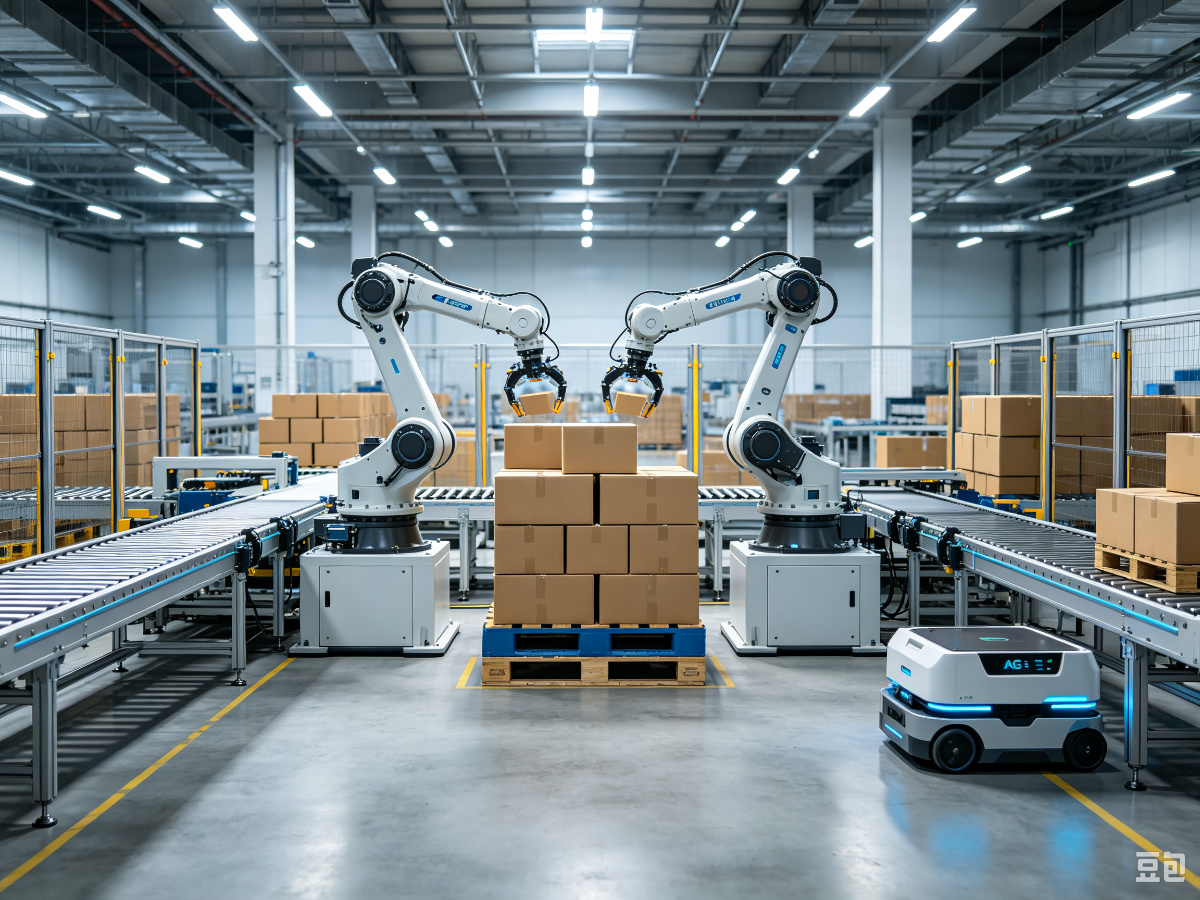
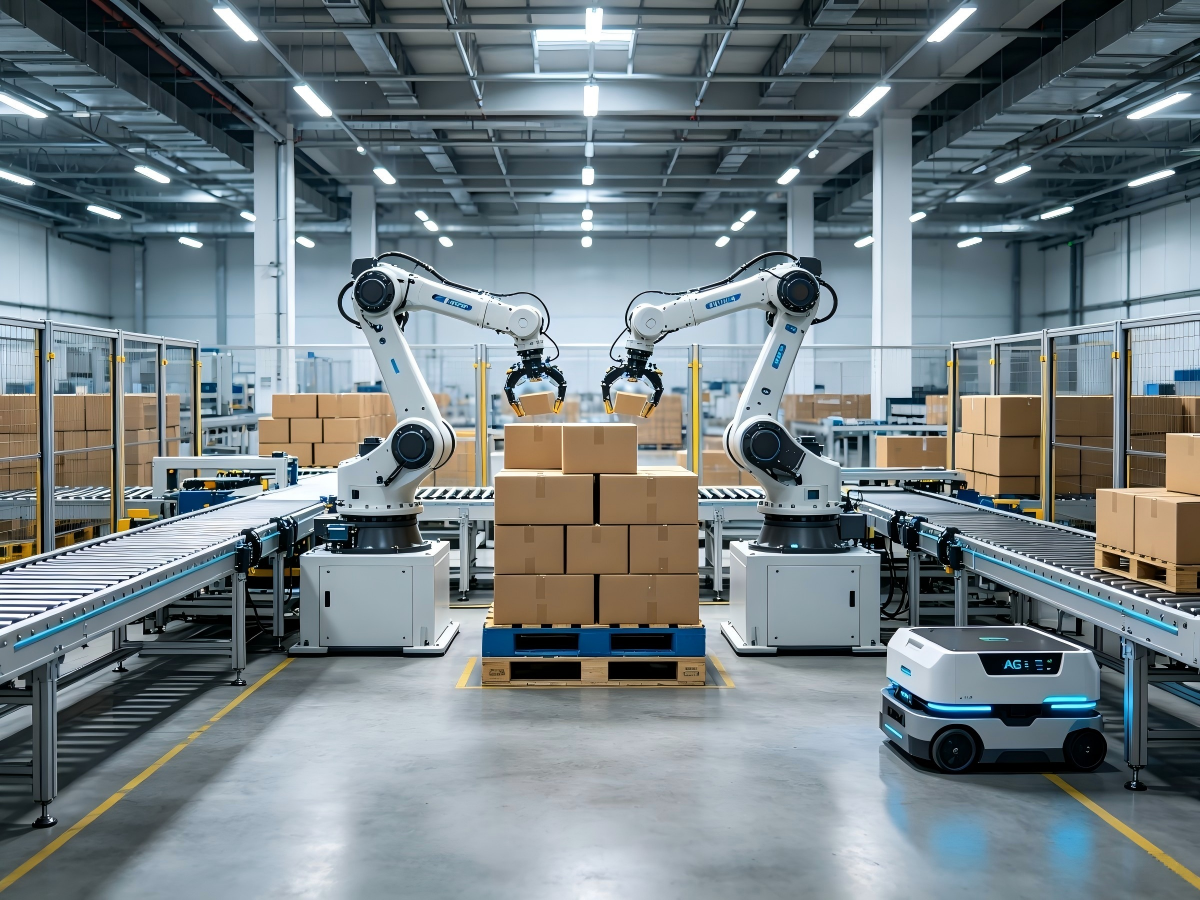
feat(admin): drag-to-reorder product images (first = main)

diff --git a/apps/admin/components/products/ProductForm.tsx b/apps/admin/components/products/ProductForm.tsx
@@ -5,7 +5,17 @@ import { useState } from "react";
 import { useFieldArray, useForm } from "react-hook-form";
 import { z } from "zod";
 import { zodResolver } from "@hookform/resolvers/zod";
-import { FileText, Package, Plus, Trash2, X } from "lucide-react";
+import { FileText, GripVertical, Package, Plus, Trash2, X } from "lucide-react";
+import {
+  closestCenter,
+  DndContext,
+  PointerSensor,
+  useSensor,
+  useSensors,
+  type DragEndEvent,
+} from "@dnd-kit/core";
+import { arrayMove, rectSortingStrategy, SortableContext, useSortable } from "@dnd-kit/sortable";
+import { CSS } from "@dnd-kit/utilities";
 import { toast } from "sonner";
 import {
   getGroupOfCategory,
@@ -40,6 +50,53 @@ type ProductFormProps = {
   initial?: { record: AdminProduct };
 };
 
+/** 可拖拽图片块（整块可拖；X 删除按钮通过 5px 激活距离与 stopPropagation 保持可点） */
+function SortableImageTile({
+  url,
+  index,
+  onDelete,
+}: {
+  url: string;
+  index: number;
+  onDelete: () => void;
+}) {
+  const { attributes, listeners, setNodeRef, transform, transition, isDragging } = useSortable({
+    id: url,
+  });
+
+  return (
+    <div
+      ref={setNodeRef}
+      style={{ transform: CSS.Transform.toString(transform), transition }}
+      {...attributes}
+      {...listeners}
+      className={`group relative aspect-[4/3] cursor-grab overflow-hidden rounded-lg border border-slate-200 active:cursor-grabbing ${
+        isDragging ? "z-10 opacity-80 shadow-lg" : ""
+      }`}
+    >
+      {/* eslint-disable-next-line @next/next/no-img-element */}
+      <img src={url} alt={`产品图 ${index + 1}`} className="h-full w-full object-cover" />
+      {index === 0 && (
+        <span className="bg-brand-blue absolute left-1.5 top-1.5 rounded-md px-1.5 py-0.5 text-xs font-medium text-white">
+          主图
+        </span>
+      )}
+      <span className="absolute bottom-1.5 left-1.5 rounded-md bg-black/50 p-1 text-white opacity-0 transition-opacity group-hover:opacity-100">
+        <GripVertical className="h-3.5 w-3.5" />
+      </span>
+      <button
+        type="button"
+        aria-label="删除图片"
+        onPointerDown={(e) => e.stopPropagation()}
+        onClick={onDelete}
+        className="absolute right-1.5 top-1.5 rounded-md bg-black/60 p-1 text-white opacity-0 transition-opacity group-hover:opacity-100"
+      >
+        <X className="h-3.5 w-3.5" />
+      </button>
+    </div>
+  );
+}
+
 /** 产品新增/编辑表单（真实 API + MinIO 素材上传/删除） */
 export function ProductForm({ initial }: ProductFormProps) {
   const router = useRouter();
@@ -54,6 +111,20 @@ export function ProductForm({ initial }: ProductFormProps) {
   const [spec, setSpec] = useState(initial?.record.specUrl ?? "");
   const [model3d, setModel3d] = useState(initial?.record.modelUrl ?? "");
   const [uploading, setUploading] = useState<"image" | "spec" | "model3d" | null>(null);
+
+  /** 拖拽传感器：5px 激活距离（避免误触删除按钮与普通点击） */
+  const sensors = useSensors(useSensor(PointerSensor, { activationConstraint: { distance: 5 } }));
+
+  /** 拖拽结束：按目标位置重排（主图始终为 position 0） */
+  const onDragEnd = (event: DragEndEvent) => {
+    const { active, over } = event;
+    if (!over || active.id === over.id) return;
+    setImages((prev) => {
+      const oldIndex = prev.indexOf(String(active.id));
+      const newIndex = prev.indexOf(String(over.id));
+      return arrayMove(prev, oldIndex, newIndex);
+    });
+  };
 
   /** 上传素材到 MinIO（经 API） */
   const uploadAsset = async (kind: "image" | "spec" | "model3d", file: File) => {
@@ -306,58 +377,50 @@ export function ProductForm({ initial }: ProductFormProps) {
         </CardContent>
       </Card>
 
-      {/* 产品图片管理 */}
+      {/* 产品图片管理（拖拽排序，第一张为主图） */}
       <Card>
         <CardHeader className="flex-row items-center justify-between space-y-0">
           <CardTitle className="text-base">产品图片</CardTitle>
-          <span className="text-xs text-slate-400">第一张为主图（最多 4 张）</span>
+          <span className="text-xs text-slate-400">拖拽调整顺序，第一张为主图（最多 4 张）</span>
         </CardHeader>
         <CardContent>
-          <div className="grid grid-cols-4 gap-4">
-            {images.map((url, index) => (
-              <div
-                key={url}
-                className="group relative aspect-[4/3] overflow-hidden rounded-lg border border-slate-200"
-              >
-                {/* eslint-disable-next-line @next/next/no-img-element */}
-                <img src={url} alt={`产品图 ${index + 1}`} className="h-full w-full object-cover" />
-                {index === 0 && (
-                  <span className="bg-brand-blue absolute left-1.5 top-1.5 rounded-md px-1.5 py-0.5 text-xs font-medium text-white">
-                    主图
-                  </span>
+          <DndContext sensors={sensors} collisionDetection={closestCenter} onDragEnd={onDragEnd}>
+            <SortableContext items={images} strategy={rectSortingStrategy}>
+              <div className="grid grid-cols-4 gap-4">
+                {images.map((url, index) => (
+                  <SortableImageTile
+                    key={url}
+                    url={url}
+                    index={index}
+                    onDelete={() =>
+                      void deleteAsset(url, () =>
+                        setImages((prev) => prev.filter((u) => u !== url)),
+                      )
+                    }
+                  />
+                ))}
+                {images.length < 4 && (
+                  <label className="hover:border-brand-blue flex aspect-[4/3] cursor-pointer flex-col items-center justify-center gap-2 rounded-lg border-2 border-dashed border-slate-200 p-4 text-center transition-colors">
+                    <input
+                      type="file"
+                      className="hidden"
+                      accept="image/png,image/jpeg,image/webp,image/svg+xml"
+                      disabled={uploading !== null}
+                      onChange={(e) => {
+                        const file = e.target.files?.[0];
+                        if (file) void uploadAsset("image", file);
+                        e.target.value = "";
+                      }}
+                    />
+                    <Plus className="h-6 w-6 text-slate-400" />
+                    <span className="text-xs text-slate-500">
+                      {uploading === "image" ? "上传中…" : "添加图片"}
+                    </span>
+                  </label>
                 )}
-                <button
-                  type="button"
-                  aria-label="删除图片"
-                  onClick={() =>
-                    void deleteAsset(url, () => setImages((prev) => prev.filter((u) => u !== url)))
-                  }
-                  className="absolute right-1.5 top-1.5 rounded-md bg-black/60 p-1 text-white opacity-0 transition-opacity group-hover:opacity-100"
-                >
-                  <X className="h-3.5 w-3.5" />
-                </button>
               </div>
-            ))}
-            {images.length < 4 && (
-              <label className="hover:border-brand-blue flex aspect-[4/3] cursor-pointer flex-col items-center justify-center gap-2 rounded-lg border-2 border-dashed border-slate-200 p-4 text-center transition-colors">
-                <input
-                  type="file"
-                  className="hidden"
-                  accept="image/png,image/jpeg,image/webp,image/svg+xml"
-                  disabled={uploading !== null}
-                  onChange={(e) => {
-                    const file = e.target.files?.[0];
-                    if (file) void uploadAsset("image", file);
-                    e.target.value = "";
-                  }}
-                />
-                <Plus className="h-6 w-6 text-slate-400" />
-                <span className="text-xs text-slate-500">
-                  {uploading === "image" ? "上传中…" : "添加图片"}
-                </span>
-              </label>
-            )}
-          </div>
+            </SortableContext>
+          </DndContext>
         </CardContent>
       </Card>
 
